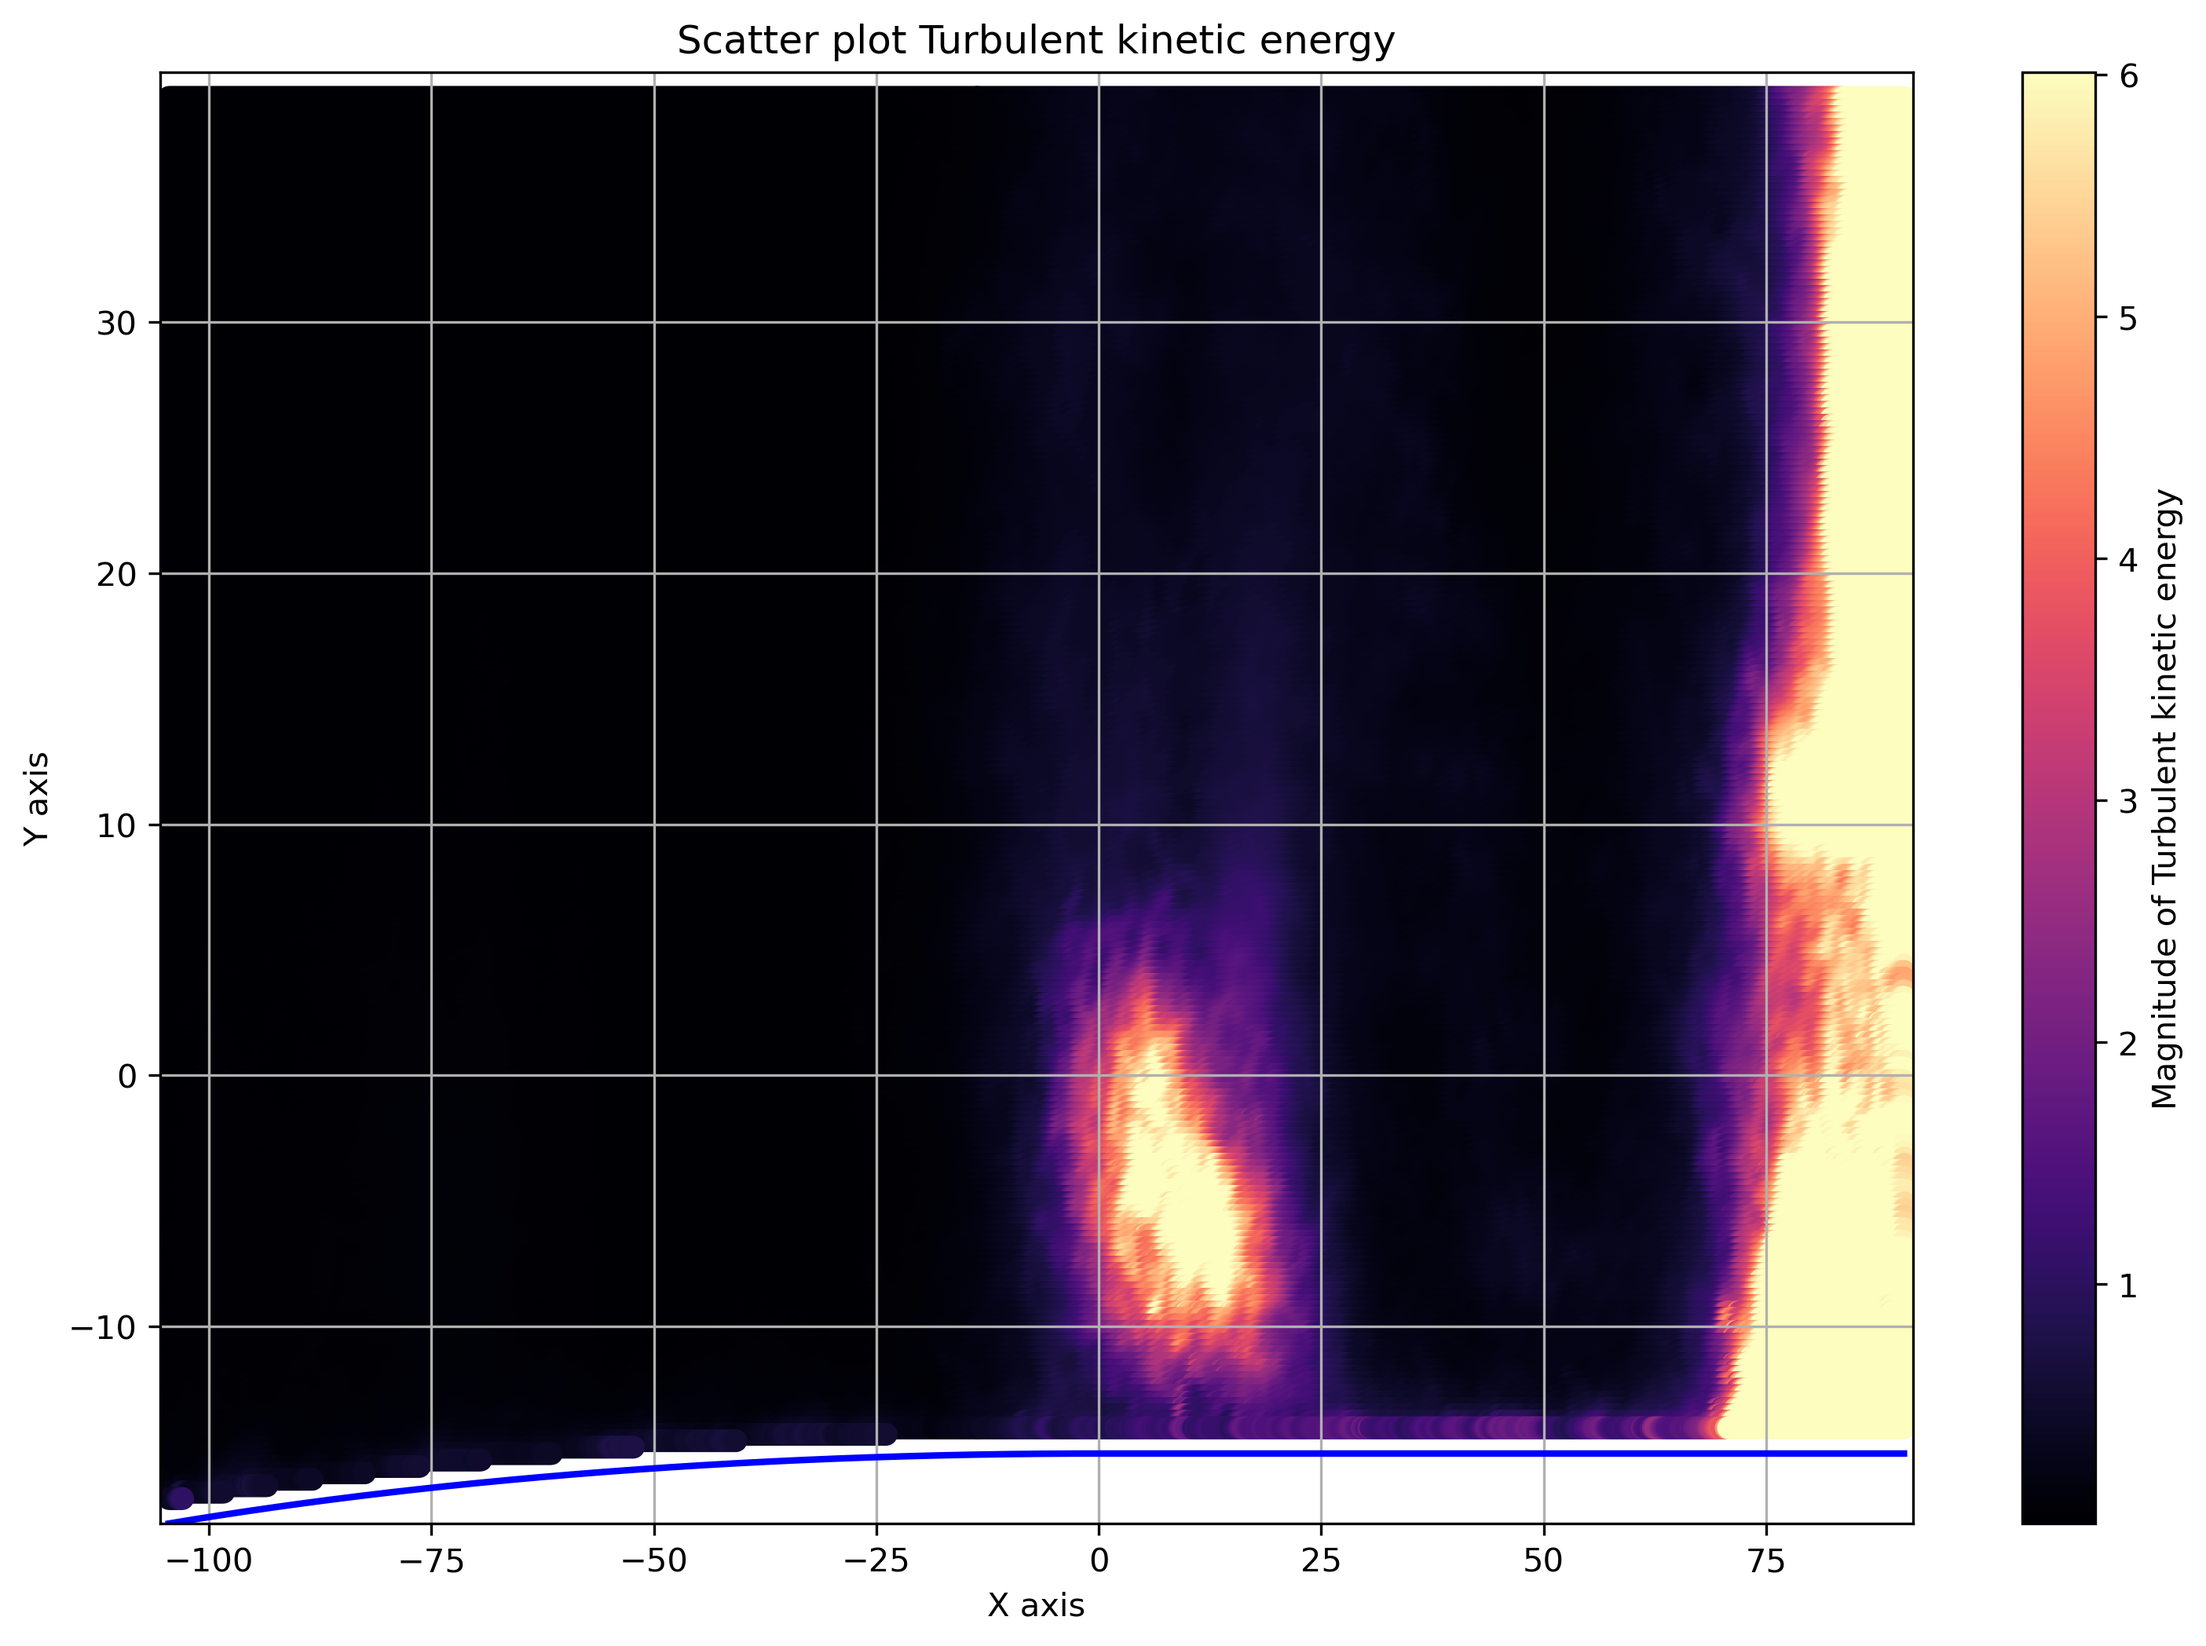
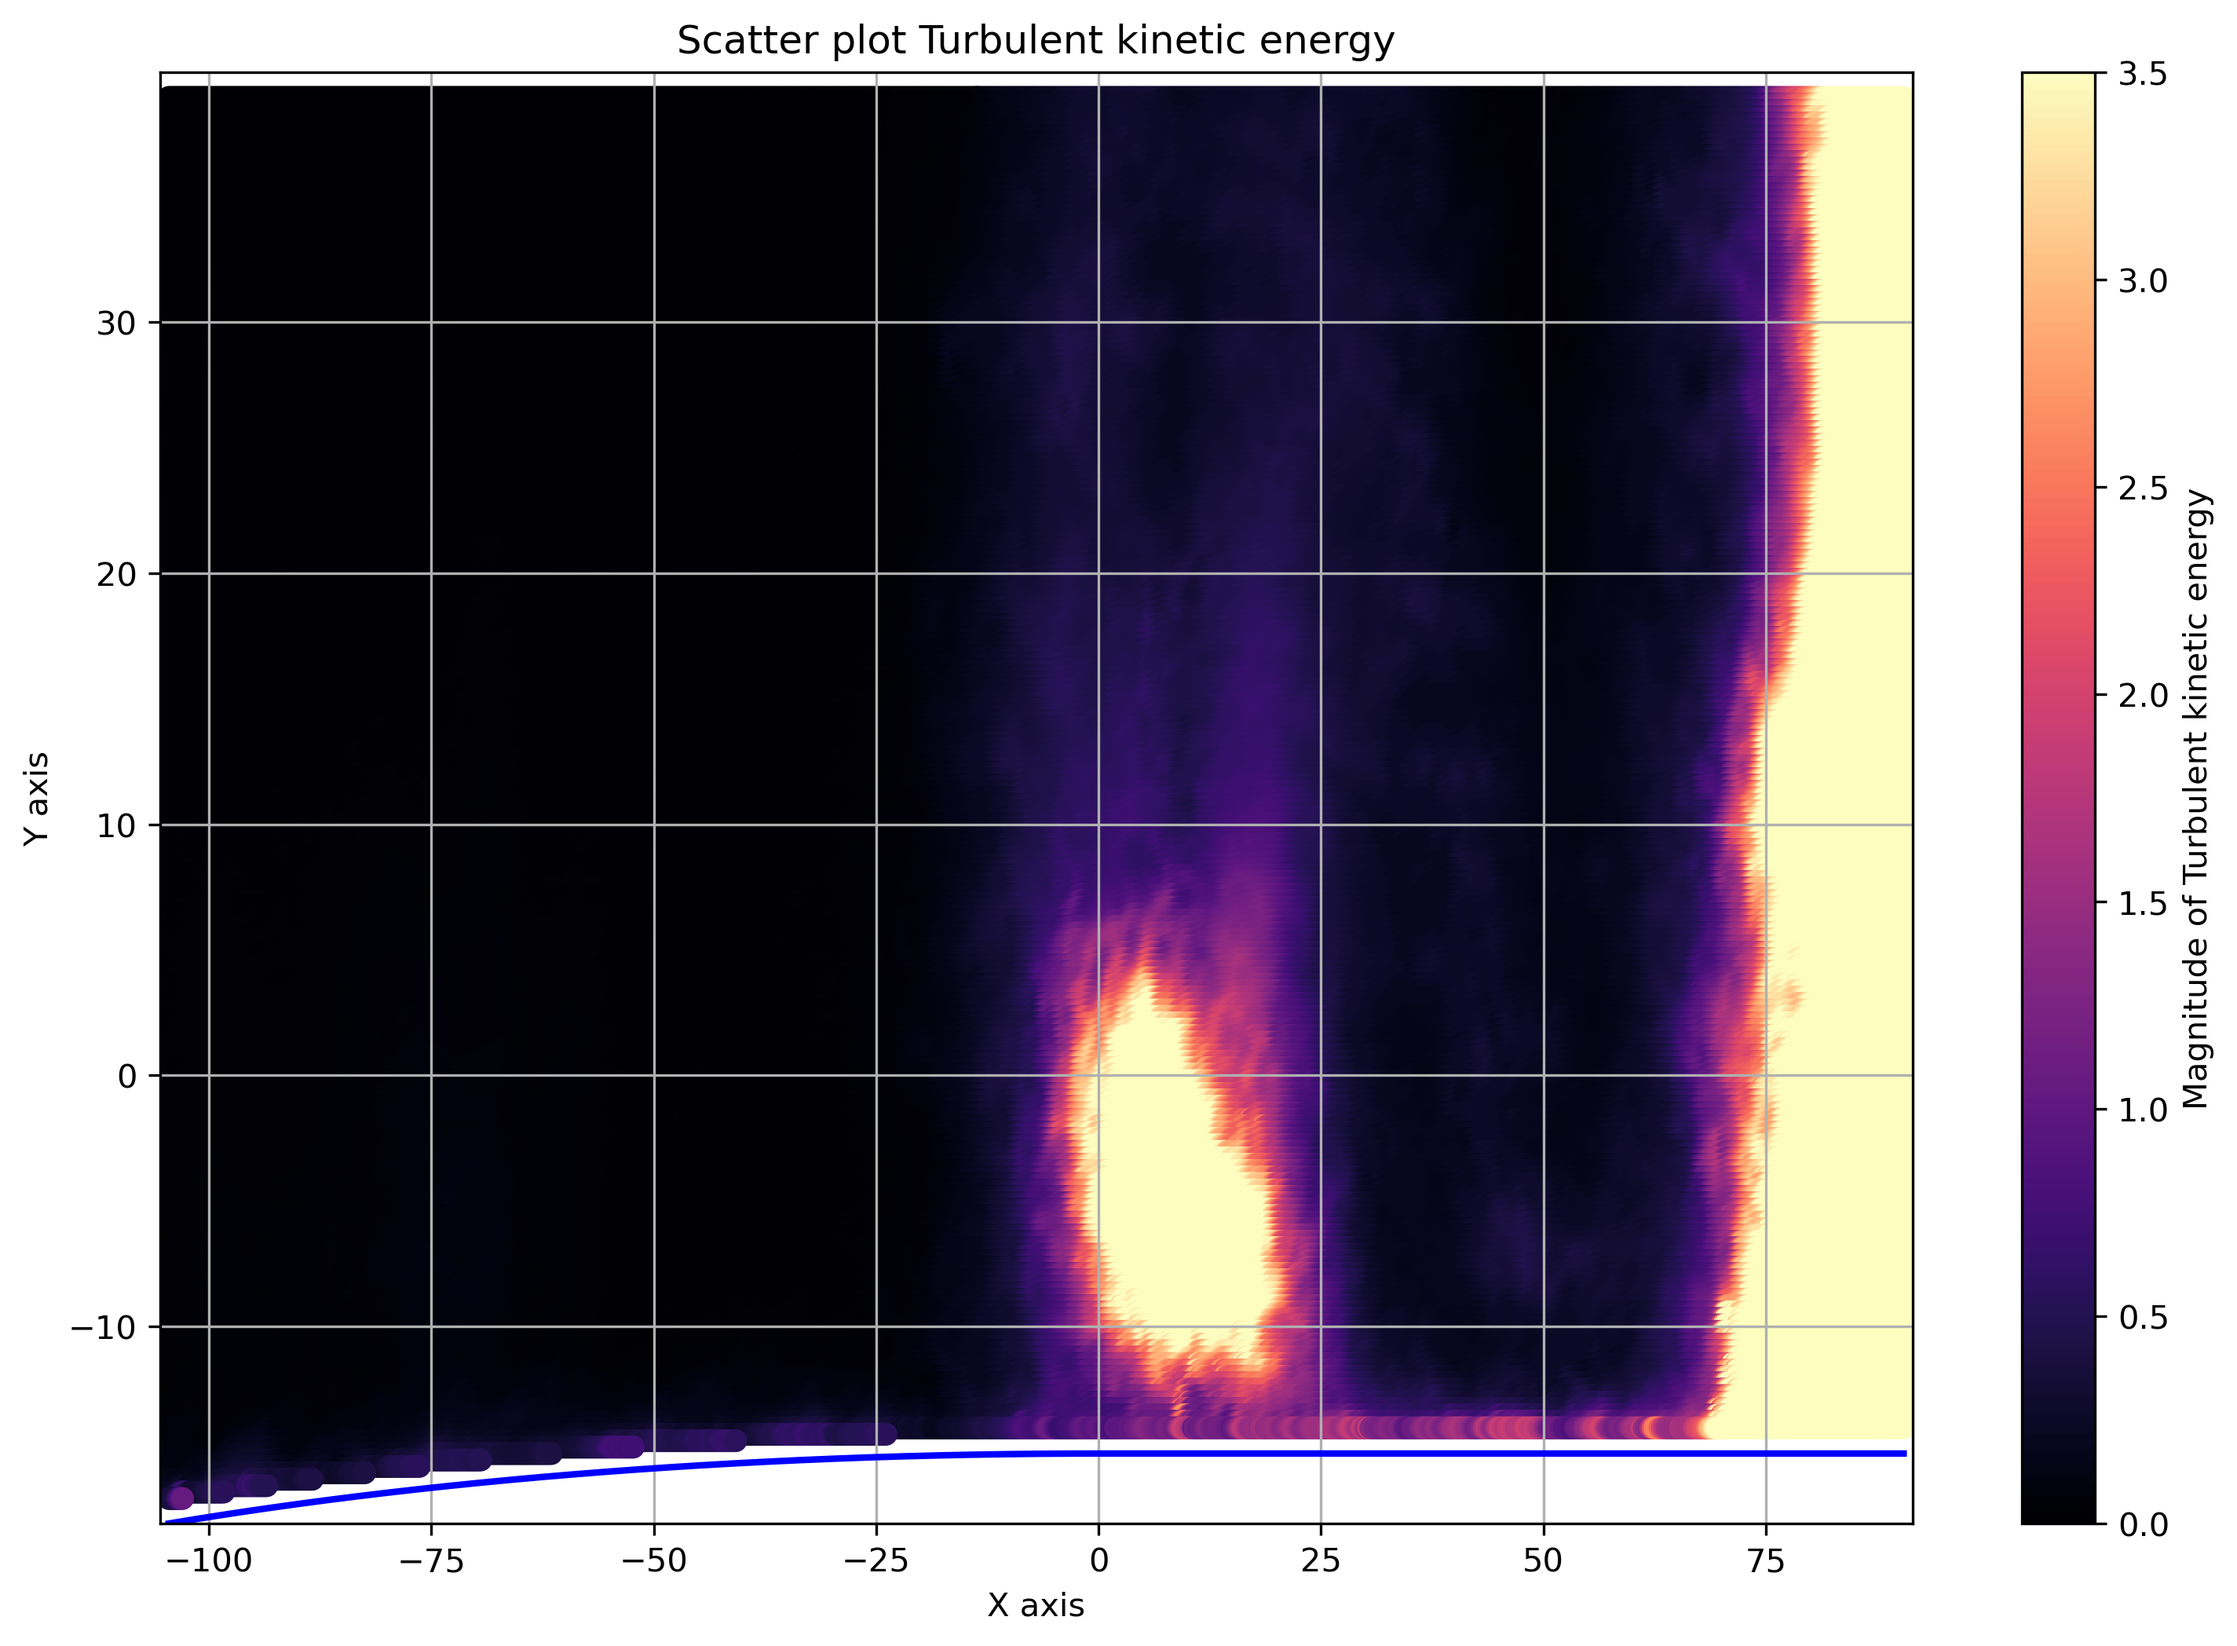
sync

diff --git a/main.py b/main.py
@@ -16,7 +16,7 @@ from Vorticity_image_gen import Vorticity_image, Velocity_fluctuations_image, Tu
 from interpolate import interpol
 
 
-Planes=['A','B']#Add C
+Planes=['C']#Add C
 
 for plane in Planes:
     print(plane)
